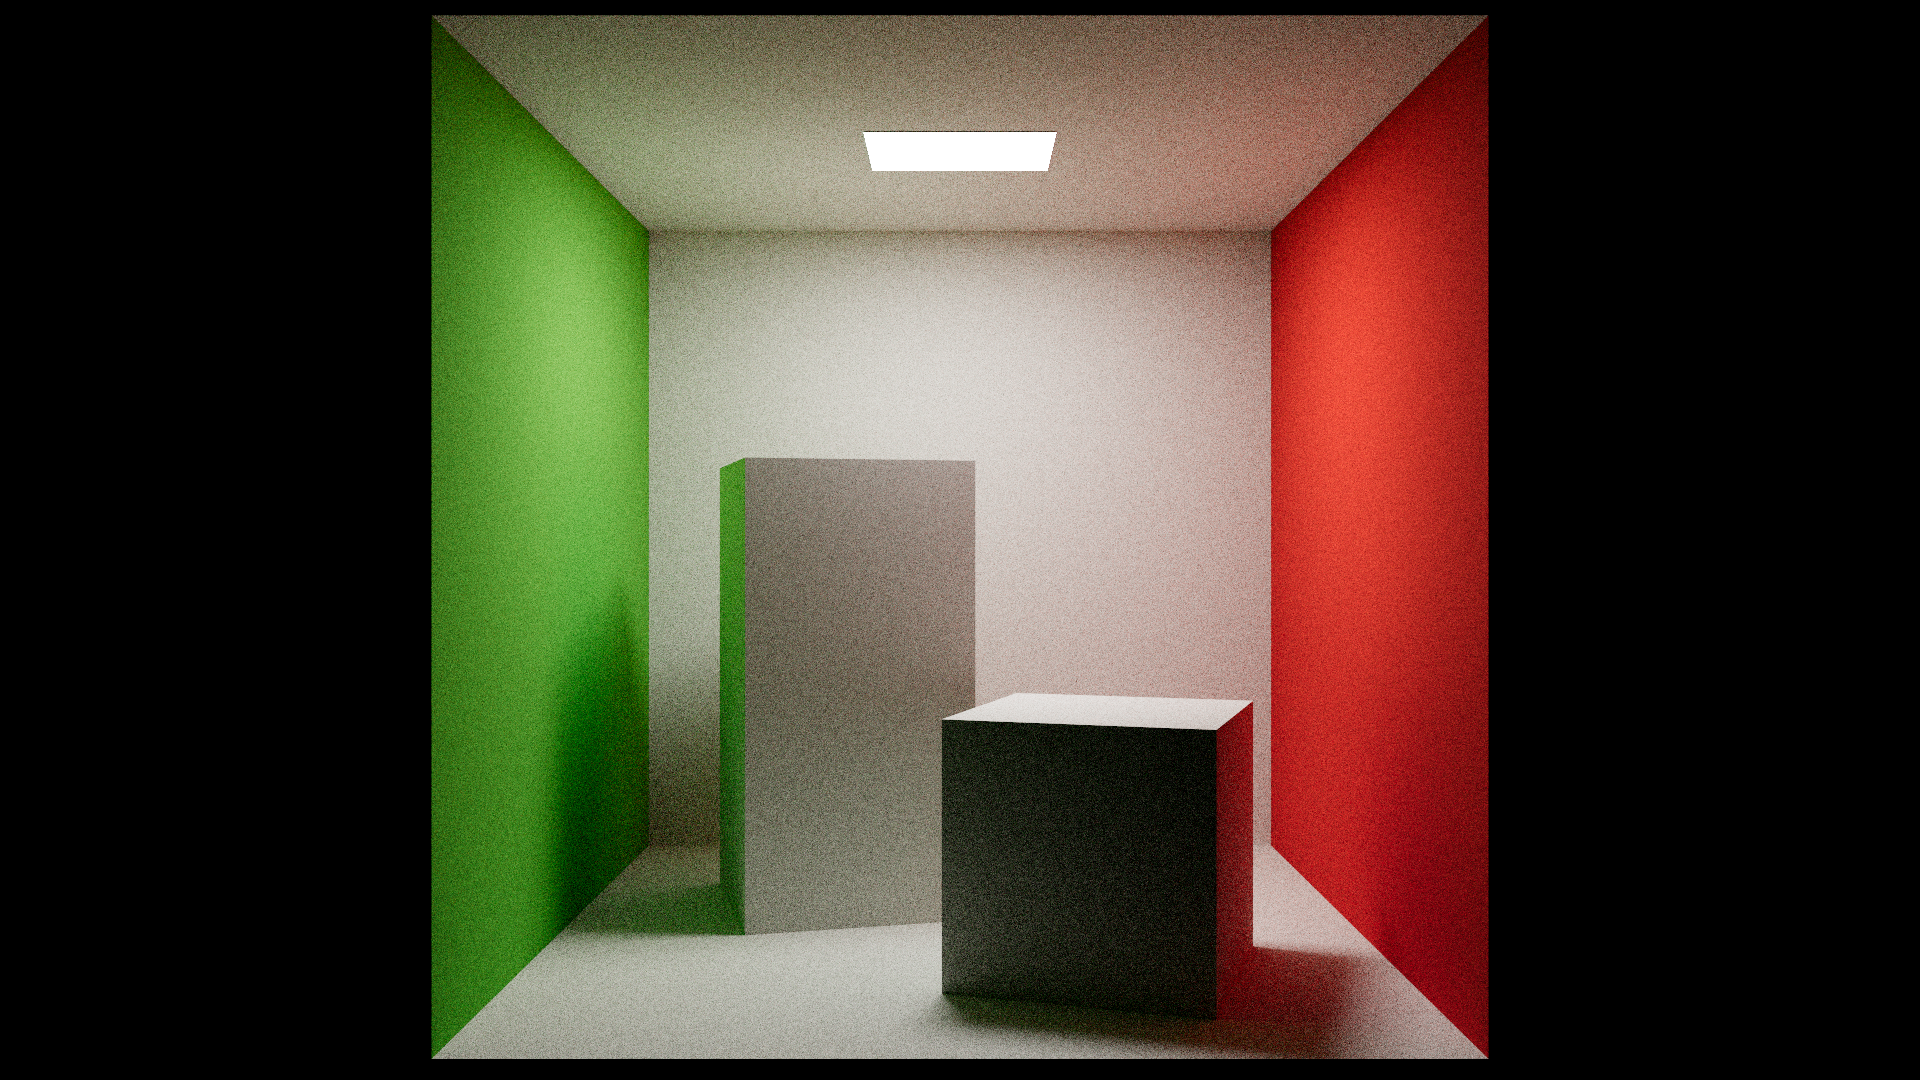
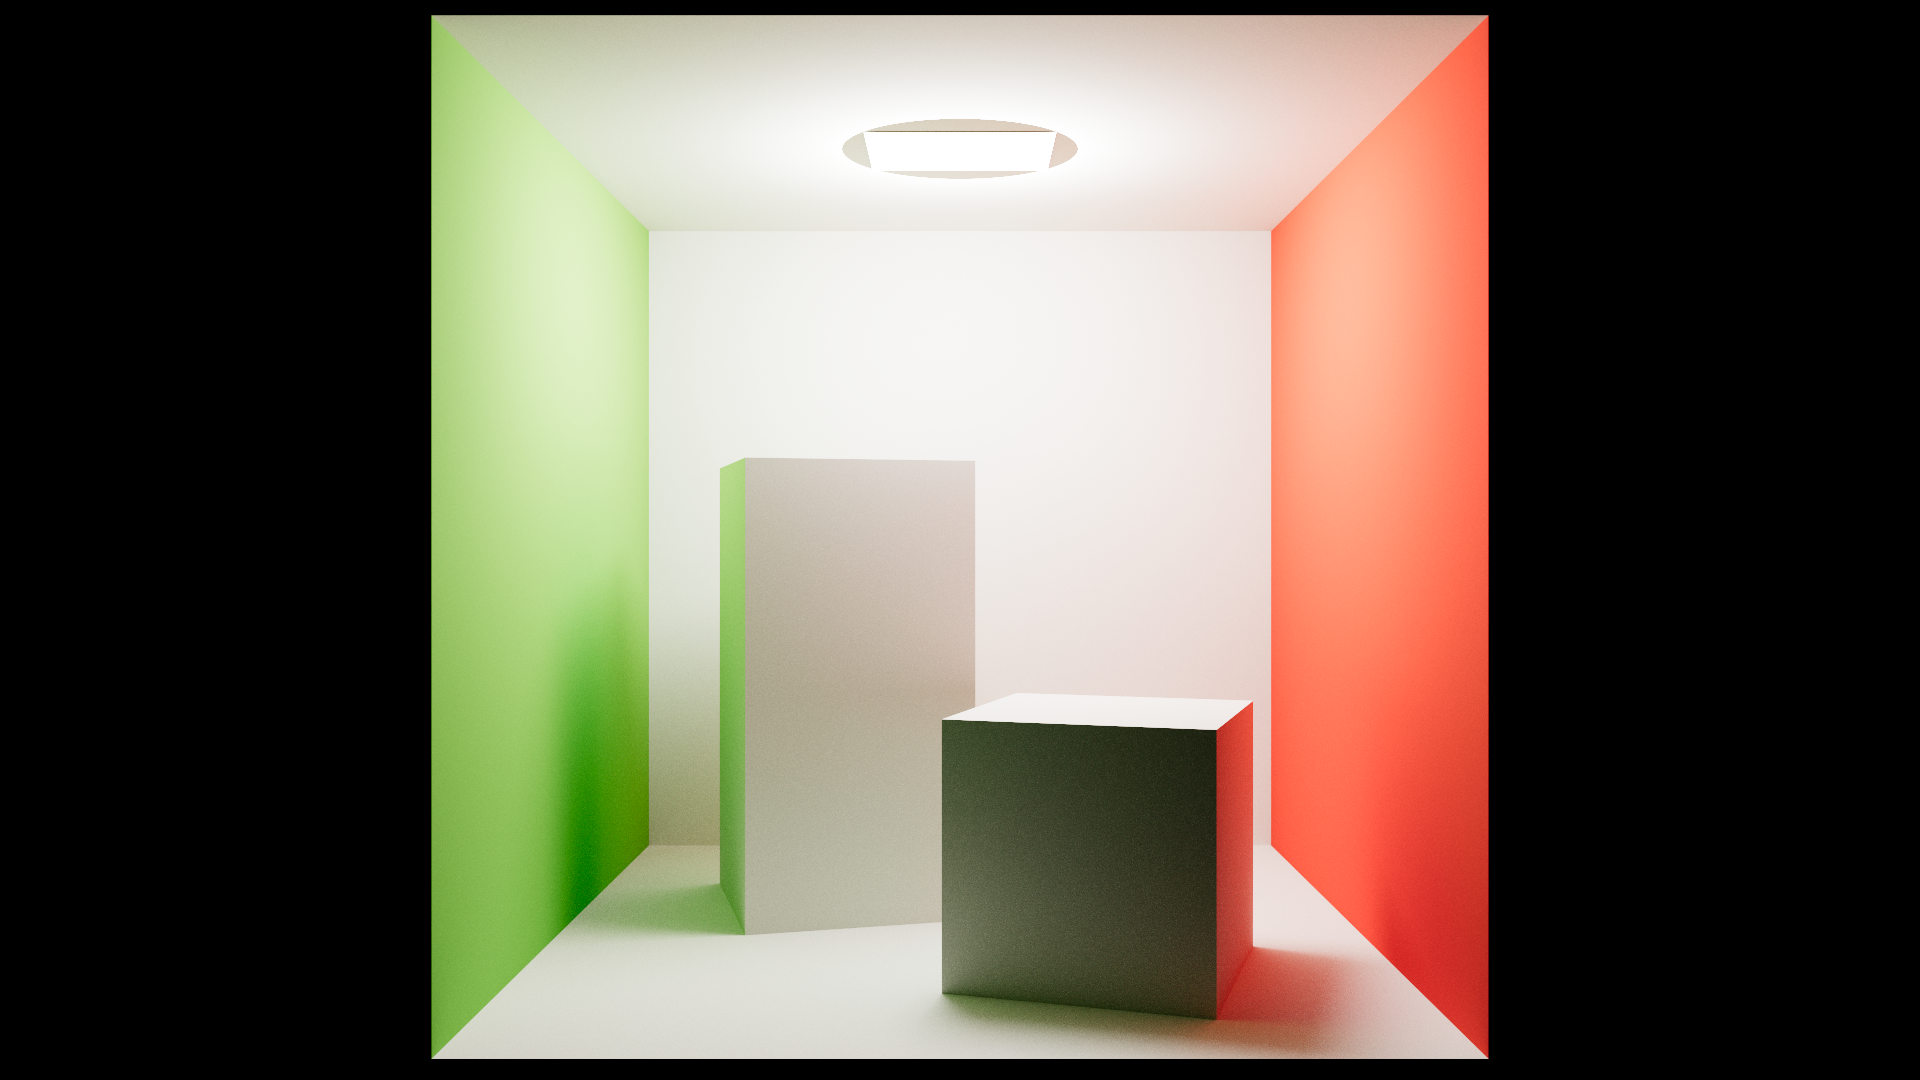
feat: add NEE with bounding-sphere solid-angle sampling
Implement Next Event Estimation (NEE) to eliminate black-dot noise
and high variance caused by pure path tracing missing the area light.

Key changes:
- GpuEmissiveLight struct (center, radius, emission, instanceIndex)
- Scene scans TriangleMesh instances for emission at build time;
  computes world-space bounding sphere per light and uploads to GPU
- New descriptor binding 7 (STORAGE_BUFFER) for emissive light list
- PushConstants extended with emissiveLightCount (48 bytes total)
- closesthit.slang: solid-angle cone sampling (PBR Book §12.6),
  shadow ray with RAY_FLAG_SKIP_CLOSEST_HIT_SHADER, double-counting
  guard (depth==0 or specularBounce bypasses the guard)
- math.slang: buildFrameFromZ() via Frisvad/Duff method
- README: NEE feature line + comprehensive References section

Result: Cornell box PNG file sizes drop ~38-47% at equal spp,
confirming dramatically lower noise. IBL-only scenes are unchanged.

diff --git a/src/hyperion/renderer/Descriptors.cpp b/src/hyperion/renderer/Descriptors.cpp
@@ -60,6 +60,7 @@ std::expected<Descriptors, VkResult> Descriptors::create(const DeviceContext& ct
         VkDescriptorSetLayoutBinding{4, VK_DESCRIPTOR_TYPE_COMBINED_IMAGE_SAMPLER, 1024, VK_SHADER_STAGE_ALL, nullptr},
         VkDescriptorSetLayoutBinding{5, VK_DESCRIPTOR_TYPE_STORAGE_BUFFER, 1, VK_SHADER_STAGE_ALL, nullptr},
         VkDescriptorSetLayoutBinding{6, VK_DESCRIPTOR_TYPE_COMBINED_IMAGE_SAMPLER, 1, VK_SHADER_STAGE_ALL, nullptr},
+        VkDescriptorSetLayoutBinding{7, VK_DESCRIPTOR_TYPE_STORAGE_BUFFER, 1, VK_SHADER_STAGE_ALL, nullptr},
     };
     constexpr std::array bindingFlags{
         VkDescriptorBindingFlags{},
@@ -70,6 +71,7 @@ std::expected<Descriptors, VkResult> Descriptors::create(const DeviceContext& ct
                                  VK_DESCRIPTOR_BINDING_UPDATE_AFTER_BIND_BIT),
         VkDescriptorBindingFlags{},
         VkDescriptorBindingFlags(VK_DESCRIPTOR_BINDING_PARTIALLY_BOUND_BIT),
+        VkDescriptorBindingFlags{},
     };
     const VkDescriptorSetLayoutBindingFlagsCreateInfo bindingFlagsInfo{
         .sType = VK_STRUCTURE_TYPE_DESCRIPTOR_SET_LAYOUT_BINDING_FLAGS_CREATE_INFO,
@@ -98,7 +100,7 @@ std::expected<Descriptors, VkResult> Descriptors::create(const DeviceContext& ct
     }
 
     constexpr std::array poolSizes{
-        VkDescriptorPoolSize{VK_DESCRIPTOR_TYPE_STORAGE_BUFFER, 5},
+        VkDescriptorPoolSize{VK_DESCRIPTOR_TYPE_STORAGE_BUFFER, 6},
         VkDescriptorPoolSize{VK_DESCRIPTOR_TYPE_COMBINED_IMAGE_SAMPLER, 1025},
     };
     const VkDescriptorPoolCreateInfo poolInfo{
@@ -169,43 +171,89 @@ VkResult Descriptors::updateSceneSet(const DeviceContext& ctx, const Scene& scen
         VkDescriptorBufferInfo{scene.vertexBuffer().handle(), 0, VK_WHOLE_SIZE},
         VkDescriptorBufferInfo{scene.indexBuffer().handle(), 0, VK_WHOLE_SIZE},
         VkDescriptorBufferInfo{scene.lightBuffer().handle(), 0, VK_WHOLE_SIZE},
+        VkDescriptorBufferInfo{scene.emissiveLightBuffer().handle(), 0, VK_WHOLE_SIZE},
     };
     const std::array writes{
         VkWriteDescriptorSet{VK_STRUCTURE_TYPE_WRITE_DESCRIPTOR_SET,
-                             nullptr, m_set1, 0, 0, 1, VK_DESCRIPTOR_TYPE_STORAGE_BUFFER,
-                             nullptr, &bufferInfos[0], nullptr},
+                             nullptr,
+                             m_set1,
+                             0,
+                             0,
+                             1,
+                             VK_DESCRIPTOR_TYPE_STORAGE_BUFFER,
+                             nullptr,
+                             &bufferInfos[0],
+                             nullptr},
         VkWriteDescriptorSet{VK_STRUCTURE_TYPE_WRITE_DESCRIPTOR_SET,
-                             nullptr, m_set1, 1, 0, 1, VK_DESCRIPTOR_TYPE_STORAGE_BUFFER,
-                             nullptr, &bufferInfos[1], nullptr},
+                             nullptr,
+                             m_set1,
+                             1,
+                             0,
+                             1,
+                             VK_DESCRIPTOR_TYPE_STORAGE_BUFFER,
+                             nullptr,
+                             &bufferInfos[1],
+                             nullptr},
         VkWriteDescriptorSet{VK_STRUCTURE_TYPE_WRITE_DESCRIPTOR_SET,
-                             nullptr, m_set1, 2, 0, 1, VK_DESCRIPTOR_TYPE_STORAGE_BUFFER,
-                             nullptr, &bufferInfos[2], nullptr},
+                             nullptr,
+                             m_set1,
+                             2,
+                             0,
+                             1,
+                             VK_DESCRIPTOR_TYPE_STORAGE_BUFFER,
+                             nullptr,
+                             &bufferInfos[2],
+                             nullptr},
         VkWriteDescriptorSet{VK_STRUCTURE_TYPE_WRITE_DESCRIPTOR_SET,
-                             nullptr, m_set1, 3, 0, 1, VK_DESCRIPTOR_TYPE_STORAGE_BUFFER,
-                             nullptr, &bufferInfos[3], nullptr},
+                             nullptr,
+                             m_set1,
+                             3,
+                             0,
+                             1,
+                             VK_DESCRIPTOR_TYPE_STORAGE_BUFFER,
+                             nullptr,
+                             &bufferInfos[3],
+                             nullptr},
         VkWriteDescriptorSet{VK_STRUCTURE_TYPE_WRITE_DESCRIPTOR_SET,
-                             nullptr, m_set1, 5, 0, 1, VK_DESCRIPTOR_TYPE_STORAGE_BUFFER,
-                             nullptr, &bufferInfos[4], nullptr},
+                             nullptr,
+                             m_set1,
+                             5,
+                             0,
+                             1,
+                             VK_DESCRIPTOR_TYPE_STORAGE_BUFFER,
+                             nullptr,
+                             &bufferInfos[4],
+                             nullptr},
+        VkWriteDescriptorSet{VK_STRUCTURE_TYPE_WRITE_DESCRIPTOR_SET,
+                             nullptr,
+                             m_set1,
+                             7,
+                             0,
+                             1,
+                             VK_DESCRIPTOR_TYPE_STORAGE_BUFFER,
+                             nullptr,
+                             &bufferInfos[5],
+                             nullptr},
     };
     vkUpdateDescriptorSets(ctx.device, static_cast<uint32_t>(writes.size()), writes.data(), 0, nullptr);
 
     // Bind each scene texture to binding 4 (bindless combined image sampler array).
     for (uint32_t i = 0; i < static_cast<uint32_t>(scene.textures().size()); ++i) {
         const VkDescriptorImageInfo imageInfo{
-            .sampler     = scene.textures()[i].sampler(),
-            .imageView   = scene.textures()[i].image().view(),
+            .sampler = scene.textures()[i].sampler(),
+            .imageView = scene.textures()[i].image().view(),
             .imageLayout = VK_IMAGE_LAYOUT_SHADER_READ_ONLY_OPTIMAL,
         };
         const VkWriteDescriptorSet write{
-            .sType            = VK_STRUCTURE_TYPE_WRITE_DESCRIPTOR_SET,
-            .pNext            = nullptr,
-            .dstSet           = m_set1,
-            .dstBinding       = 4,
-            .dstArrayElement  = i,
-            .descriptorCount  = 1,
-            .descriptorType   = VK_DESCRIPTOR_TYPE_COMBINED_IMAGE_SAMPLER,
-            .pImageInfo       = &imageInfo,
-            .pBufferInfo      = nullptr,
+            .sType = VK_STRUCTURE_TYPE_WRITE_DESCRIPTOR_SET,
+            .pNext = nullptr,
+            .dstSet = m_set1,
+            .dstBinding = 4,
+            .dstArrayElement = i,
+            .descriptorCount = 1,
+            .descriptorType = VK_DESCRIPTOR_TYPE_COMBINED_IMAGE_SAMPLER,
+            .pImageInfo = &imageInfo,
+            .pBufferInfo = nullptr,
             .pTexelBufferView = nullptr,
         };
         vkUpdateDescriptorSets(ctx.device, 1, &write, 0, nullptr);

diff --git a/src/hyperion/GpuTypes.hpp b/src/hyperion/GpuTypes.hpp
@@ -18,12 +18,12 @@ enum class LightType : uint32_t {
 
 struct GpuVertex {
     glm::vec3 position;
-    float     tangentX;      ///< Tangent vector X component (world space)
+    float tangentX; ///< Tangent vector X component (world space)
     glm::vec3 normal;
-    float     tangentY;      ///< Tangent vector Y component (world space)
+    float tangentY; ///< Tangent vector Y component (world space)
     glm::vec2 uv;
-    float     tangentZ;      ///< Tangent vector Z component (world space)
-    float     bitangentSign; ///< ±1 handedness of the bitangent (B = sign × (N × T))
+    float tangentZ;      ///< Tangent vector Z component (world space)
+    float bitangentSign; ///< ±1 handedness of the bitangent (B = sign × (N × T))
 };
 
 struct GpuMaterial {
@@ -36,13 +36,14 @@ struct GpuMaterial {
     glm::vec4 transmissionScatter;
     glm::vec4 subsurfaceColorWeight;
     glm::vec4 subsurfaceRadiusScale;
-    glm::uvec4 textureIndices;  ///< bindless texture indices: [base_color, normal, orm, emission]; ~0u = none
+    glm::uvec4 textureIndices; ///< bindless texture indices: [base_color, normal, orm, emission]; ~0u = none
     glm::vec4 thinFilmParams;
     glm::vec4 coatColorWeight;
     glm::vec4 coatRoughAnisoIorDark;
     glm::vec4 fuzzColorWeight;
     glm::vec4 fuzzRoughPad;
-    glm::vec4 emissionColorLum; ///< xyz = emission_color (linear Rec.2020), w = emission_luminance in cd/m² (OpenPBR spec)
+    glm::vec4
+        emissionColorLum; ///< xyz = emission_color (linear Rec.2020), w = emission_luminance in cd/m² (OpenPBR spec)
     glm::vec4 opacityFlagsPad;
 };
 
@@ -54,6 +55,14 @@ struct GpuInstance {
     uint32_t geometryKind;
     float sphereRadius;
     uint32_t _pad[2];
+};
+
+/// GPU-side emissive-mesh descriptor for NEE bounding-sphere sampling (std430, 32 bytes).
+struct GpuEmissiveLight {
+    glm::vec3 center;       ///< world-space bounding sphere centre (= mesh centroid)
+    float radius;           ///< bounding sphere radius
+    glm::vec3 emission;     ///< radiance: emissionColor × emissionLuminance (linear Rec.2020)
+    uint32_t instanceIndex; ///< instance index used to skip self-shadow during NEE
 };
 
 /// GPU-side light descriptor (std430, 64 bytes).
@@ -93,10 +102,12 @@ struct PushConstants {
     uint32_t maxDepth;
     uint32_t rngSeed;
     float envLuminanceScale;
-    uint32_t lightCount;        ///< number of active GpuLights in the light buffer
-    uint32_t outputColorSpace;  ///< OutputColorSpace enum value (used by tonemap pass)
-    uint32_t samplesPerPixel;   ///< samples per pixel this dispatch
-    uint32_t hasEnvMap;         ///< 1 = IBL env map is bound in set1/binding6, 0 = procedural sky
+    uint32_t lightCount;         ///< number of active GpuLights in the light buffer
+    uint32_t outputColorSpace;   ///< OutputColorSpace enum value (used by tonemap pass)
+    uint32_t samplesPerPixel;    ///< samples per pixel this dispatch
+    uint32_t hasEnvMap;          ///< 1 = IBL env map is bound in set1/binding6, 0 = procedural sky
+    uint32_t emissiveLightCount; ///< number of emissive mesh lights for NEE (0 = disabled)
+    uint32_t _pad[3];            // NOLINT(modernize-avoid-c-arrays) — explicit GPU layout padding
 };
 
 static_assert(std::is_trivially_copyable_v<GpuVertex>);
@@ -106,6 +117,7 @@ static constexpr uint32_t kNoTexture = ~0u;
 static_assert(std::is_trivially_copyable_v<GpuMaterial>);
 static_assert(std::is_trivially_copyable_v<GpuInstance>);
 static_assert(std::is_trivially_copyable_v<GpuLight>);
+static_assert(std::is_trivially_copyable_v<GpuEmissiveLight>);
 static_assert(std::is_trivially_copyable_v<CameraData>);
 static_assert(std::is_trivially_copyable_v<PushConstants>);
 
@@ -113,5 +125,6 @@ static_assert(sizeof(GpuVertex) == 48);
 static_assert(sizeof(GpuMaterial) == 272);
 static_assert(sizeof(GpuInstance) == 32);
 static_assert(sizeof(GpuLight) == 64);
+static_assert(sizeof(GpuEmissiveLight) == 32);
 static_assert(sizeof(CameraData) == 176);
-static_assert(sizeof(PushConstants) == 32);
+static_assert(sizeof(PushConstants) == 48);

diff --git a/src/hyperion/scene/Scene.cpp b/src/hyperion/scene/Scene.cpp
@@ -15,6 +15,7 @@
 #include <utility>
 #include <vma/vk_mem_alloc.h>
 
+#include "hyperion/GpuTypes.hpp"
 #include "hyperion/scene/Geometry.hpp"
 
 namespace {
@@ -184,12 +185,12 @@ VkResult Scene::buildSceneBuffers(const DeviceContext& ctx, const CommandPool& p
             instance.indexOffset = 0;
             // Store sphere centre in the vertex position slot for shader lookup.
             vertices.push_back(GpuVertex{
-                .position      = sphere->center(),
-                .tangentX      = 0.0f,
-                .normal        = glm::vec3(0.0f),
-                .tangentY      = 0.0f,
-                .uv            = glm::vec2(0.0f),
-                .tangentZ      = 0.0f,
+                .position = sphere->center(),
+                .tangentX = 0.0f,
+                .normal = glm::vec3(0.0f),
+                .tangentY = 0.0f,
+                .uv = glm::vec2(0.0f),
+                .tangentZ = 0.0f,
                 .bitangentSign = 1.0f,
             });
         }
@@ -264,9 +265,69 @@ VkResult Scene::buildSceneBuffers(const DeviceContext& ctx, const CommandPool& p
     }
     m_lightBuffer = std::move(*lightBuffer);
 
+    // Emissive light buffer — scan triangle meshes for emission and build bounding spheres.
+    std::vector<GpuEmissiveLight> emissiveLights;
+    for (size_t i = 0; i < m_geometries.size(); ++i) {
+        const GpuInstance& inst = m_instances[i];
+        if (inst.geometryKind != 0U) {
+            continue; // spheres not supported for NEE yet
+        }
+        const GpuMaterial& gpuMat = gpuMaterials[inst.materialIndex];
+        if (gpuMat.emissionColorLum.w <= 0.0F) { // NOLINT(cppcoreguidelines-pro-type-union-access)
+            continue;
+        }
+        const auto* mesh = dynamic_cast<const TriangleMesh*>(m_geometries[i].get());
+        if (mesh == nullptr) {
+            continue;
+        }
+        const auto& verts = mesh->data().vertices;
+        if (verts.empty()) {
+            continue;
+        }
+
+        const glm::mat4 xformMat = m_geometries[i]->xform.matrix();
+
+        // World-space centroid (bounding sphere centre).
+        glm::vec3 centroid(0.0F);
+        for (const auto& v : verts) {
+            centroid += v.position;
+        }
+        centroid /= static_cast<float>(verts.size());
+        const glm::vec3 worldCentroid = glm::vec3(xformMat * glm::vec4(centroid, 1.0F));
+
+        // Bounding sphere radius = max distance from centroid to any vertex in world space.
+        float radius = 0.0F;
+        for (const auto& v : verts) {
+            const glm::vec3 worldPos = glm::vec3(xformMat * glm::vec4(v.position, 1.0F));
+            radius = std::max(radius, glm::length(worldPos - worldCentroid));
+        }
+
+        const glm::vec3 emission = glm::vec3(gpuMat.emissionColorLum) *
+                                   gpuMat.emissionColorLum.w; // NOLINT(cppcoreguidelines-pro-type-union-access)
+        emissiveLights.push_back(GpuEmissiveLight{
+            .center = worldCentroid,
+            .radius = std::max(radius, 1.0e-3F),
+            .emission = emission,
+            .instanceIndex = static_cast<uint32_t>(i),
+        });
+    }
+    m_emissiveLightCount = static_cast<uint32_t>(emissiveLights.size());
+    if (emissiveLights.empty()) {
+        emissiveLights.push_back(GpuEmissiveLight{}); // sentinel — keeps the binding valid
+    }
+    auto emissiveLightBuffer =
+        uploadBytes(ctx,
+                    pool,
+                    std::as_bytes(std::span<const GpuEmissiveLight>(emissiveLights.data(), emissiveLights.size())),
+                    VK_BUFFER_USAGE_STORAGE_BUFFER_BIT | VK_BUFFER_USAGE_SHADER_DEVICE_ADDRESS_BIT,
+                    "scene.emissiveLights");
+    if (!emissiveLightBuffer) {
+        return emissiveLightBuffer.error();
+    }
+    m_emissiveLightBuffer = std::move(*emissiveLightBuffer);
+
     return VK_SUCCESS;
 }
-
 
 VkResult Scene::buildTlas(const DeviceContext& ctx, const CommandPool& pool) {
     std::vector<VkAccelerationStructureInstanceKHR> instances(m_geometries.size());

diff --git a/src/hyperion/scene/Scene.hpp b/src/hyperion/scene/Scene.hpp
@@ -49,9 +49,11 @@ class Scene {
     [[nodiscard]] const Buffer& vertexBuffer() const noexcept { return m_vertexBuffer; }
     [[nodiscard]] const Buffer& indexBuffer() const noexcept { return m_indexBuffer; }
     [[nodiscard]] const Buffer& lightBuffer() const noexcept { return m_lightBuffer; }
+    [[nodiscard]] const Buffer& emissiveLightBuffer() const noexcept { return m_emissiveLightBuffer; }
     [[nodiscard]] const std::vector<Texture>& textures() const noexcept { return m_textures; }
     [[nodiscard]] uint32_t instanceCount() const noexcept { return static_cast<uint32_t>(m_geometries.size()); }
     [[nodiscard]] uint32_t lightCount() const noexcept { return static_cast<uint32_t>(m_lights.size()); }
+    [[nodiscard]] uint32_t emissiveLightCount() const noexcept { return m_emissiveLightCount; }
 
   private:
     VkResult buildSceneBuffers(const DeviceContext& ctx, const CommandPool& pool);
@@ -67,6 +69,8 @@ class Scene {
     Buffer m_vertexBuffer{};
     Buffer m_indexBuffer{};
     Buffer m_lightBuffer{};
+    Buffer m_emissiveLightBuffer{};
+    uint32_t m_emissiveLightCount = 0;
     AccelerationStructure m_tlas{};
     VkDeviceAddress m_tlasAddress{};
 };

diff --git a/src/hyperion/renderer/PathTracer.cpp b/src/hyperion/renderer/PathTracer.cpp
@@ -169,6 +169,8 @@ VkResult PathTracer::render(VkCommandBuffer cmd,
         .outputColorSpace = m_config.outputColorSpace,
         .samplesPerPixel = m_config.samplesPerPixel,
         .hasEnvMap = m_config.hasEnvMap,
+        .emissiveLightCount = scene.emissiveLightCount(),
+        ._pad = {},
     };
     vkCmdPushConstants(cmd, m_pipelineLayout, VK_SHADER_STAGE_ALL, 0, sizeof(PushConstants), &pushConstants);
 

diff --git a/README.md b/README.md
@@ -34,6 +34,7 @@ It implements the [OpenPBR Surface v1.1](https://academysoftwarefoundation.githu
 ### Rendering
 - Vulkan 1.4 KHR ray tracing pipeline (raygen / closest-hit / miss / intersection shaders)
 - Unidirectional path tracing with configurable bounce depth and samples per pixel
+- **Next Event Estimation (NEE)** — bounding-sphere solid-angle sampling toward emissive meshes; shadow rays eliminate black-dot noise and halve required SPP
 - Analytic spheres via `VK_KHR_ray_tracing_pipeline` intersection shaders
 - Image-based lighting (IBL) — equirectangular HDR panorama via `env_map`
 - Emissive mesh area lights (physical units: cd/m²)
@@ -153,3 +154,44 @@ cd build && ctest --output-on-failure
 | [Slang](https://shader-slang.com/) | Shader language |
 | [Google Test](https://github.com/google/googletest) | Testing |
 
+---
+
+## References
+
+The following specifications, textbooks, and learning resources informed the design of Hyperion:
+
+### Rendering & Path Tracing
+| Resource | Relevance |
+|----------|-----------|
+| [Physically Based Rendering: From Theory To Implementation, 4th ed.](https://www.pbrt.org/) (Pharr, Jakob, Humphreys) | Path tracing, BSDF sampling, MIS, NEE, solid-angle sphere light sampling (§12.6) |
+| [Ray Tracing Gems I & II](https://www.realtimerendering.com/raytracinggems/) (Haines et al., Marrs et al.) | Shadow ray precision, NEE techniques, ray tracing best practices |
+| [Ray Tracing in One Weekend series](https://raytracing.github.io/) (Shirley et al.) | Introductory path-tracer architecture |
+
+### Vulkan & Ray Tracing API
+| Resource | Relevance |
+|----------|-----------|
+| [Vulkan Specification 1.4](https://registry.khronos.org/vulkan/specs/latest/html/) | `VK_KHR_ray_tracing_pipeline`, `VK_KHR_acceleration_structure`, descriptor indexing |
+| [Khronos — Ray Tracing in Vulkan](https://www.khronos.org/blog/ray-tracing-in-vulkan) | Pipeline setup, SBT layout, shader stages |
+| [NVIDIA — Ray Tracing Learning Library](https://developer.nvidia.com/rtx/ray-tracing) | Algorithm-level ray tracing techniques (implementation uses Khronos extensions only — no vendor-specific extensions) |
+| [Slang Shading Language](https://shader-slang.com/) | `[raypayload]` semantic, `TraceRay`, Vulkan binding annotations |
+
+### Material Model
+| Resource | Relevance |
+|----------|-----------|
+| [OpenPBR Surface Specification v1.1](https://academysoftwarefoundation.github.io/OpenPBR/) | Material layer stack, parameter naming (base/specular/coat/fuzz/emission/transmission) |
+| [MaterialX Standard Surface](https://materialx.org/) | Cross-reference for PBR parameter vocabulary |
+| [Blender Principled BSDF](https://docs.blender.org/manual/en/latest/render/shader_nodes/shader/principled.html) | Cross-reference for PBR parameter vocabulary |
+
+### Color Science
+| Resource | Relevance |
+|----------|-----------|
+| [OpenColorIO](https://opencolorio.org/) | Color space transforms, ACES RRT/ODT, tonemapping nomenclature |
+| [ITU-R BT.2100](https://www.itu.int/rec/R-REC-BT.2100/) | PQ/ST2084 and HLG OETF for HDR display output |
+| [IEC 61966-2-1 (sRGB)](https://www.color.org/srgb.xalter) | sRGB EOTF for SDR display output |
+
+### Scene & Asset Formats
+| Resource | Relevance |
+|----------|-----------|
+| [OpenUSD](https://openusd.org/release/api/index.html) | Naming conventions: Prim, Xform, Mesh, Material, Light, Camera, Instance |
+| [glTF 2.0 Specification](https://registry.khronos.org/glTF/specs/2.0/glTF-2.0.html) | PBR material and scene graph conventions |
+| [Wavefront OBJ](http://paulbourke.net/dataformats/obj/) | Geometry-only OBJ import (no MTL — materials are assigned in the `.scene` file) |
